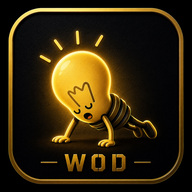
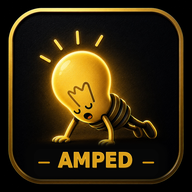
updated name

Changed region(s): [[0.125, 0.7188, 0.875, 0.9688]]

diff --git a/styles.css b/styles.css
@@ -1,5 +1,5 @@
 :root{color-scheme:dark;--bg:#050505;--surface:#101010;--surface2:#171717;--gold:#ffbd19;--gold2:#ffd85a;--gold-dark:#7a4d00;--text:#fff8df;--muted:#b7ae98;--line:#ffffff18;--danger:#ff6b62;--radius:24px;--safe-bottom:env(safe-area-inset-bottom,0px)}
-*{box-sizing:border-box;-webkit-tap-highlight-color:transparent}html{scroll-behavior:smooth}body{margin:0;min-height:100vh;font-family:Inter,ui-sans-serif,system-ui,-apple-system,BlinkMacSystemFont,"Segoe UI",sans-serif;background:radial-gradient(circle at 50% -20%,#6b4500 0,transparent 34rem),linear-gradient(#080808,#020202);color:var(--text)}button,input,select{font:inherit}button{touch-action:manipulation}.app-shell{width:min(760px,100%);margin:auto;padding:12px 14px calc(34px + var(--safe-bottom))}.topbar{height:66px;display:flex;align-items:center;justify-content:space-between}.brand{display:flex;align-items:center;gap:10px;color:inherit;text-decoration:none}.brand img{border-radius:14px;box-shadow:0 0 24px #ffbd194d}.brand span{display:grid;line-height:.86;letter-spacing:.1em}.brand b{font-size:.73rem;color:var(--muted)}.brand strong{font-size:1.35rem;color:var(--gold)}.top-actions{display:flex;gap:8px}.icon-btn,.ghost-btn,.secondary{border:1px solid var(--line);background:#ffffff0b;color:var(--text);border-radius:14px;min-height:44px;padding:0 15px;font-weight:800}.icon-btn{width:44px;padding:0;font-size:1.15rem}.hero-card{position:relative;min-height:290px;overflow:hidden;border:1px solid #ffbd193d;border-radius:30px;background:#090909;box-shadow:0 22px 65px #000,0 0 0 1px #000 inset}.hero-card:after{content:"";position:absolute;inset:0;background:linear-gradient(90deg,#050505 0%,#050505e8 40%,#05050550 72%,transparent),linear-gradient(0deg,#050505aa,transparent 50%);pointer-events:none}.hero-art{position:absolute;inset:0}.hero-art img{width:100%;height:100%;object-fit:cover;object-position:72% 44%;filter:saturate(.95) contrast(1.05)}.hero-copy{position:relative;z-index:1;width:62%;padding:32px 24px}.eyebrow{margin:0 0 9px;color:var(--gold);font-size:.72rem;font-weight:950;letter-spacing:.18em;text-transform:uppercase}.hero-copy h1{margin:0;font-size:clamp(2.8rem,13vw,5rem);line-height:.83;letter-spacing:-.065em;text-transform:uppercase}.hero-copy h1 span{color:var(--gold)}.hero-copy p:last-child{max-width:280px;color:var(--muted);font-weight:650;line-height:1.45}.builder-card,.preview-card,.utility-card,.settings-card{margin-top:14px;border:1px solid var(--line);border-radius:var(--radius);background:linear-gradient(180deg,#171717,#0c0c0c);box-shadow:0 18px 50px #0008}.builder-card,.preview-card{padding:20px}.card-heading,.preview-header{display:flex;align-items:flex-start;justify-content:space-between;gap:14px}.card-heading h2{margin:0;font-size:1.42rem}.step-pill{padding:7px 9px;border:1px solid #ffbd1940;border-radius:999px;color:var(--gold);font-size:.63rem;font-weight:900;white-space:nowrap}.segmented{display:grid;grid-template-columns:repeat(3,1fr);gap:6px;margin-top:20px;padding:5px;border:1px solid var(--line);border-radius:17px;background:#000}.tab{min-height:47px;border:0;border-radius:12px;background:transparent;color:var(--muted);font-weight:900}.tab.active{background:linear-gradient(135deg,#ffb000,#ffda5a);color:#171000;box-shadow:0 8px 24px #ffb00030}.input-panel{display:none;margin-top:18px}.input-panel.active{display:block}.input-panel label,.compact-control span{display:block;margin-bottom:8px;color:var(--muted);font-size:.83rem;font-weight:850}.name-input-wrap{position:relative}.text-box,select{width:100%;border:1px solid #ffbd1935;background:#050505;color:var(--text);border-radius:16px;outline:none}.text-box:focus,select:focus{border-color:var(--gold);box-shadow:0 0 0 3px #ffbd1917}.name-input{height:64px;padding:0 52px 0 16px;font-size:1.35rem;font-weight:900;text-transform:uppercase;letter-spacing:.03em}.clear-btn{position:absolute;right:9px;top:9px;width:46px;height:46px;border:0;border-radius:13px;background:#ffffff0c;color:var(--muted);font-size:1.6rem}.recent-names{display:flex;gap:8px;overflow:auto;padding-top:10px;scrollbar-width:none}.recent-names:empty{display:none}.recent-name{flex:0 0 auto;border:1px solid var(--line);border-radius:999px;background:#ffffff08;color:var(--muted);padding:8px 12px;font-size:.76rem;font-weight:850}.range-row{display:grid;grid-template-columns:1fr 56px;gap:12px;align-items:center}input[type=range]{width:100%;accent-color:var(--gold)}.range-value{height:48px;display:grid;place-items:center;border:1px solid var(--line);border-radius:13px;background:#050505;font-weight:950}.hint{margin:9px 0 0;color:var(--muted);font-size:.8rem;line-height:1.45}.quick-options{display:grid;grid-template-columns:1fr 1fr;gap:10px;margin-top:18px}.compact-control,.toggle-control{border:1px solid var(--line);border-radius:16px;background:#080808;padding:12px}.compact-control select{height:43px;padding:0 10px}.toggle-control{display:flex;align-items:center;gap:10px;color:var(--muted);font-size:.82rem;font-weight:800}.toggle-control input{width:22px;height:22px;accent-color:var(--gold);flex:0 0 auto}.primary{border:1px solid #ffe38f;border-radius:17px;background:linear-gradient(135deg,#f5a900,#ffd758 58%,#bd7600);color:#171000;font-weight:950;box-shadow:0 12px 30px #ffb0002e}.jumbo{width:100%;min-height:70px;margin-top:16px;display:grid;place-items:center;align-content:center}.jumbo span{font-size:1rem;letter-spacing:.08em}.jumbo small{margin-top:3px;font-weight:750;opacity:.7}.preview-header h2{margin:0;max-width:520px;font-size:clamp(2.5rem,11vw,5rem);line-height:.84;letter-spacing:-.06em;color:var(--gold);text-transform:uppercase;word-break:break-word}.preview-header p:last-child{margin:10px 0 0;color:var(--muted)}.move-count{flex:0 0 auto;width:82px;height:82px;display:grid;place-items:center;align-content:center;border:1px solid #ffbd1945;border-radius:50%;background:radial-gradient(circle,#ffbd1924,#000)}.move-count strong{font-size:2.3rem;line-height:.85}.move-count span{color:var(--muted);font-size:.65rem;text-transform:uppercase;font-weight:900}.exercise-preview{display:grid;gap:8px;margin-top:20px}.preview-move{display:grid;grid-template-columns:44px 1fr auto;gap:11px;align-items:center;padding:10px;border:1px solid var(--line);border-radius:15px;background:#080808}.preview-letter{width:44px;height:44px;display:grid;place-items:center;border-radius:12px;background:linear-gradient(135deg,#ffb000,#ffe075);color:#171000;font-size:1.3rem;font-weight:1000}.preview-move b{display:block}.preview-move small{color:var(--muted)}.preview-index{color:#756e5f;font-size:.73rem;font-weight:900}.preview-timer-btn{border:1px solid #ffbd1950;border-radius:12px;background:#ffbd1918;color:var(--gold);font-weight:900;font-size:.73rem;padding:9px 10px;min-width:58px}.preview-timer-btn.running{background:linear-gradient(135deg,#f5a900,#ffdb62);color:#171000;border-color:#ffe38f}.preview-timer-btn.done{background:#1f6b3a26;color:#5fd98a;border-color:#5fd98a55}.more-moves{text-align:center;color:var(--muted);font-size:.8rem;font-weight:800}.totals{display:flex;gap:7px;overflow-x:auto;margin-top:12px;padding-bottom:2px;scrollbar-width:none}.total{flex:0 0 auto;border:1px solid var(--line);border-radius:999px;padding:8px 11px;background:#ffffff08;color:var(--muted);font-size:.73rem;font-weight:850}.preview-actions{display:grid;grid-template-columns:1fr 1fr;gap:9px}.preview-actions .primary{grid-column:1/-1}.preview-actions .secondary{min-height:50px}.utility-card{overflow:hidden}.utility-row{width:100%;display:grid;grid-template-columns:42px 1fr auto;gap:11px;align-items:center;padding:14px;border:0;border-bottom:1px solid var(--line);background:transparent;color:var(--text);text-align:left}.utility-row:last-child{border-bottom:0}.utility-icon{width:40px;height:40px;display:grid;place-items:center;border-radius:12px;background:#ffbd1919;color:var(--gold);font-weight:950}.utility-row b,.utility-row small{display:block}.utility-row small{margin-top:3px;color:var(--muted);font-size:.74rem}.utility-row em{color:var(--gold);font-size:.72rem;font-style:normal;font-weight:900}.settings-card{overflow:hidden}.settings-card summary{padding:18px;cursor:pointer;font-weight:900}.settings-body{padding:0 16px 18px}.option-grid{display:grid;grid-template-columns:1fr 1fr;gap:9px}.editor-toolbar{display:flex;gap:8px;flex-wrap:wrap;margin:16px 0}.editor-toolbar .secondary,.import-label{display:inline-flex;align-items:center;justify-content:center;min-height:44px}.editor-head,.editor-row{display:grid;grid-template-columns:34px 64px 72px 1.5fr 1.1fr .8fr;gap:7px;align-items:center}.editor-head{color:var(--muted);font-size:.64rem;text-transform:uppercase}.editor-grid{display:grid;gap:7px;margin-top:8px}.editor-row{border:1px solid var(--line);border-radius:13px;padding:7px;background:#080808}.editor-letter{width:34px;height:34px;display:grid;place-items:center;border-radius:9px;background:#ffbd191e;color:var(--gold);font-weight:950}.editor-row input,.editor-row select{min-width:0;height:39px;padding:0 8px;border-radius:9px}.runner{position:fixed;z-index:100;inset:0;display:grid;grid-template-rows:auto 5px 1fr auto;background:radial-gradient(circle at 50% 30%,#4a3000 0,transparent 48%),#050505;padding:calc(10px + env(safe-area-inset-top,0px)) 14px calc(12px + var(--safe-bottom))}.runner-top{display:grid;grid-template-columns:48px 1fr 48px;align-items:center}.runner-icon{height:48px;border:1px solid var(--line);border-radius:14px;background:#ffffff0b;color:var(--text);font-size:1.35rem}.runner-title{text-align:center}.runner-title small,.runner-title b{display:block}.runner-title small{color:var(--gold);font-size:.69rem;font-weight:950;letter-spacing:.14em}.runner-title b{margin-top:2px;font-size:.8rem}.progress-track{margin-top:10px;border-radius:999px;background:#ffffff13;overflow:hidden}.progress-track span{display:block;height:100%;width:0;background:linear-gradient(90deg,#f5a900,#ffe275);transition:width .25s}.runner-main{display:grid;place-items:center;align-content:center;text-align:center;min-height:0;overflow:auto}.runner-letter{width:min(42vw,190px);height:min(42vw,190px);display:grid;place-items:center;border:3px solid #ffe27f;border-radius:38px;background:radial-gradient(circle at 35% 30%,#ffe37c,#ffb000 52%,#875000);color:#1b1100;font-size:min(28vw,8rem);font-weight:1000;box-shadow:0 0 70px #ffb0004d}.runner-kicker{margin:22px 0 7px;color:var(--muted);font-size:.72rem;font-weight:950;letter-spacing:.17em}.runner-main h2{max-width:680px;margin:0;font-size:clamp(2.2rem,10vw,5.3rem);line-height:.95;letter-spacing:-.045em;text-transform:uppercase}.runner-split{margin:10px 0 0;color:var(--gold);font-weight:900}.timer-box{margin-top:20px}.timer-box strong{display:block;font-size:4rem;line-height:.9}.timer-box span{color:var(--muted);font-size:.7rem;font-weight:950;letter-spacing:.16em}.timer-button{display:block;min-width:180px;height:48px;margin:12px auto 0;border:1px solid #ffbd1950;border-radius:14px;background:#ffbd1918;color:var(--gold);font-weight:950}.runner-bottom{display:grid;grid-template-columns:72px 1fr 72px;gap:9px}.runner-secondary,.runner-complete{min-height:68px;border-radius:18px}.runner-secondary{border:1px solid var(--line);background:#ffffff0b;color:var(--muted);font-size:.78rem;font-weight:900}.runner-complete{border:1px solid #ffe38f;background:linear-gradient(135deg,#f5a900,#ffdb62);color:#171000;font-weight:1000}.runner-complete span,.runner-complete small{display:block}.runner-complete span{font-size:1.08rem;letter-spacing:.08em}.runner-complete small{opacity:.68}.finish-screen{position:fixed;z-index:110;inset:0;display:grid;place-items:center;align-content:center;text-align:center;padding:30px;background:radial-gradient(circle at center,#5a3b00,#050505 55%)}.finish-screen img{border-radius:28px;box-shadow:0 0 70px #ffbd1959}.finish-screen h2{margin:8px 0;font-size:clamp(2.5rem,12vw,5.4rem);line-height:.88;color:var(--gold);letter-spacing:-.05em}.finish-screen p:not(.eyebrow){color:var(--muted)}.finish-screen .secondary{width:100%;max-width:420px;min-height:50px;margin-top:10px}.finish-screen .primary{max-width:420px}.hidden{display:none!important}
+*{box-sizing:border-box;-webkit-tap-highlight-color:transparent}html{scroll-behavior:smooth}body{margin:0;min-height:100vh;font-family:Inter,ui-sans-serif,system-ui,-apple-system,BlinkMacSystemFont,"Segoe UI",sans-serif;background:radial-gradient(circle at 50% -20%,#6b4500 0,transparent 34rem),linear-gradient(#080808,#020202);color:var(--text)}button,input,select{font:inherit}button{touch-action:manipulation}.app-shell{width:min(760px,100%);margin:auto;padding:12px 14px calc(34px + var(--safe-bottom))}.topbar{height:66px;display:flex;align-items:center;justify-content:space-between}.brand{display:flex;align-items:center;gap:10px;color:inherit;text-decoration:none}.brand img{border-radius:14px;box-shadow:0 0 24px #ffbd194d}.brand span{display:grid;line-height:.86;letter-spacing:.1em}.brand b{font-size:.73rem;color:var(--muted)}.brand strong{font-size:1.35rem;color:var(--gold)}.top-actions{display:flex;gap:8px}.icon-btn,.ghost-btn,.secondary{border:1px solid var(--line);background:#ffffff0b;color:var(--text);border-radius:14px;min-height:44px;padding:0 15px;font-weight:800}.icon-btn{width:44px;padding:0;font-size:1.15rem}.hero-card{position:relative;min-height:290px;overflow:hidden;border:1px solid #ffbd193d;border-radius:30px;background:#090909;box-shadow:0 22px 65px #000,0 0 0 1px #000 inset}.hero-card:after{content:"";position:absolute;inset:0;background:linear-gradient(90deg,#050505 0%,#050505e8 40%,#05050550 72%,transparent),linear-gradient(0deg,#050505aa,transparent 50%);pointer-events:none}.hero-art{position:absolute;inset:0}.hero-art img{width:100%;height:100%;object-fit:cover;object-position:72% 44%;filter:saturate(.95) contrast(1.05)}.max-hotspot{position:absolute;z-index:2;right:0;top:0;width:52%;height:100%;border:0;background:transparent;cursor:default}.max-hotspot:focus-visible{outline:2px solid var(--gold);outline-offset:-8px;border-radius:26px}.max-toast{position:fixed;z-index:130;left:50%;bottom:calc(24px + var(--safe-bottom));max-width:min(88vw,420px);padding:12px 16px;border:1px solid #ffbd1950;border-radius:999px;background:#111e;color:var(--gold);font-size:.82rem;font-weight:900;text-align:center;box-shadow:0 12px 36px #000c;opacity:0;transform:translate(-50%,18px) scale(.96);pointer-events:none;transition:opacity .18s ease,transform .18s ease}.max-toast.show{opacity:1;transform:translate(-50%,0) scale(1)}.hero-copy{position:relative;z-index:1;width:62%;padding:32px 24px}.eyebrow{margin:0 0 9px;color:var(--gold);font-size:.72rem;font-weight:950;letter-spacing:.18em;text-transform:uppercase}.hero-copy h1{margin:0;font-size:clamp(2.8rem,13vw,5rem);line-height:.83;letter-spacing:-.065em;text-transform:uppercase}.hero-copy h1 span{color:var(--gold)}.hero-copy p:last-child{max-width:280px;color:var(--muted);font-weight:650;line-height:1.45}.builder-card,.preview-card,.utility-card,.settings-card{margin-top:14px;border:1px solid var(--line);border-radius:var(--radius);background:linear-gradient(180deg,#171717,#0c0c0c);box-shadow:0 18px 50px #0008}.builder-card,.preview-card{padding:20px}.card-heading,.preview-header{display:flex;align-items:flex-start;justify-content:space-between;gap:14px}.card-heading h2{margin:0;font-size:1.42rem}.step-pill{padding:7px 9px;border:1px solid #ffbd1940;border-radius:999px;color:var(--gold);font-size:.63rem;font-weight:900;white-space:nowrap}.segmented{display:grid;grid-template-columns:repeat(3,1fr);gap:6px;margin-top:20px;padding:5px;border:1px solid var(--line);border-radius:17px;background:#000}.tab{min-height:47px;border:0;border-radius:12px;background:transparent;color:var(--muted);font-weight:900}.tab.active{background:linear-gradient(135deg,#ffb000,#ffda5a);color:#171000;box-shadow:0 8px 24px #ffb00030}.input-panel{display:none;margin-top:18px}.input-panel.active{display:block}.input-panel label,.compact-control span{display:block;margin-bottom:8px;color:var(--muted);font-size:.83rem;font-weight:850}.name-input-wrap{position:relative}.text-box,select{width:100%;border:1px solid #ffbd1935;background:#050505;color:var(--text);border-radius:16px;outline:none}.text-box:focus,select:focus{border-color:var(--gold);box-shadow:0 0 0 3px #ffbd1917}.name-input{height:64px;padding:0 52px 0 16px;font-size:1.35rem;font-weight:900;text-transform:uppercase;letter-spacing:.03em}.clear-btn{position:absolute;right:9px;top:9px;width:46px;height:46px;border:0;border-radius:13px;background:#ffffff0c;color:var(--muted);font-size:1.6rem}.recent-names{display:flex;gap:8px;overflow:auto;padding-top:10px;scrollbar-width:none}.recent-names:empty{display:none}.recent-name{flex:0 0 auto;border:1px solid var(--line);border-radius:999px;background:#ffffff08;color:var(--muted);padding:8px 12px;font-size:.76rem;font-weight:850}.range-row{display:grid;grid-template-columns:1fr 56px;gap:12px;align-items:center}input[type=range]{width:100%;accent-color:var(--gold)}.range-value{height:48px;display:grid;place-items:center;border:1px solid var(--line);border-radius:13px;background:#050505;font-weight:950}.hint{margin:9px 0 0;color:var(--muted);font-size:.8rem;line-height:1.45}.quick-options{display:grid;grid-template-columns:1fr 1fr;gap:10px;margin-top:18px}.compact-control,.toggle-control{border:1px solid var(--line);border-radius:16px;background:#080808;padding:12px}.compact-control select{height:43px;padding:0 10px}.toggle-control{display:flex;align-items:center;gap:10px;color:var(--muted);font-size:.82rem;font-weight:800}.toggle-control input{width:22px;height:22px;accent-color:var(--gold);flex:0 0 auto}.primary{border:1px solid #ffe38f;border-radius:17px;background:linear-gradient(135deg,#f5a900,#ffd758 58%,#bd7600);color:#171000;font-weight:950;box-shadow:0 12px 30px #ffb0002e}.jumbo{width:100%;min-height:70px;margin-top:16px;display:grid;place-items:center;align-content:center}.jumbo span{font-size:1rem;letter-spacing:.08em}.jumbo small{margin-top:3px;font-weight:750;opacity:.7}.preview-header h2{margin:0;max-width:520px;font-size:clamp(2.5rem,11vw,5rem);line-height:.84;letter-spacing:-.06em;color:var(--gold);text-transform:uppercase;word-break:break-word}.preview-header p:last-child{margin:10px 0 0;color:var(--muted)}.move-count{flex:0 0 auto;width:82px;height:82px;display:grid;place-items:center;align-content:center;border:1px solid #ffbd1945;border-radius:50%;background:radial-gradient(circle,#ffbd1924,#000)}.move-count strong{font-size:2.3rem;line-height:.85}.move-count span{color:var(--muted);font-size:.65rem;text-transform:uppercase;font-weight:900}.exercise-preview{display:grid;gap:8px;margin-top:20px}.preview-move{display:grid;grid-template-columns:44px 1fr auto;gap:11px;align-items:center;padding:10px;border:1px solid var(--line);border-radius:15px;background:#080808}.preview-letter{width:44px;height:44px;display:grid;place-items:center;border-radius:12px;background:linear-gradient(135deg,#ffb000,#ffe075);color:#171000;font-size:1.3rem;font-weight:1000}.preview-move b{display:block}.preview-move small{color:var(--muted)}.preview-index{color:#756e5f;font-size:.73rem;font-weight:900}.preview-timer-btn{border:1px solid #ffbd1950;border-radius:12px;background:#ffbd1918;color:var(--gold);font-weight:900;font-size:.73rem;padding:9px 10px;min-width:58px}.preview-timer-btn.running{background:linear-gradient(135deg,#f5a900,#ffdb62);color:#171000;border-color:#ffe38f}.preview-timer-btn.done{background:#1f6b3a26;color:#5fd98a;border-color:#5fd98a55}.more-moves{text-align:center;color:var(--muted);font-size:.8rem;font-weight:800}.totals{display:flex;gap:7px;overflow-x:auto;margin-top:12px;padding-bottom:2px;scrollbar-width:none}.total{flex:0 0 auto;border:1px solid var(--line);border-radius:999px;padding:8px 11px;background:#ffffff08;color:var(--muted);font-size:.73rem;font-weight:850}.preview-actions{display:grid;grid-template-columns:1fr 1fr;gap:9px}.preview-actions .primary{grid-column:1/-1}.preview-actions .secondary{min-height:50px}.utility-card{overflow:hidden}.utility-row{width:100%;display:grid;grid-template-columns:42px 1fr auto;gap:11px;align-items:center;padding:14px;border:0;border-bottom:1px solid var(--line);background:transparent;color:var(--text);text-align:left}.utility-row:last-child{border-bottom:0}.utility-icon{width:40px;height:40px;display:grid;place-items:center;border-radius:12px;background:#ffbd1919;color:var(--gold);font-weight:950}.utility-row b,.utility-row small{display:block}.utility-row small{margin-top:3px;color:var(--muted);font-size:.74rem}.utility-row em{color:var(--gold);font-size:.72rem;font-style:normal;font-weight:900}.settings-card{overflow:hidden}.settings-card summary{padding:18px;cursor:pointer;font-weight:900}.settings-body{padding:0 16px 18px}.option-grid{display:grid;grid-template-columns:1fr 1fr;gap:9px}.editor-toolbar{display:flex;gap:8px;flex-wrap:wrap;margin:16px 0}.editor-toolbar .secondary,.import-label{display:inline-flex;align-items:center;justify-content:center;min-height:44px}.editor-head,.editor-row{display:grid;grid-template-columns:34px 64px 72px 1.5fr 1.1fr .8fr;gap:7px;align-items:center}.editor-head{color:var(--muted);font-size:.64rem;text-transform:uppercase}.editor-grid{display:grid;gap:7px;margin-top:8px}.editor-row{border:1px solid var(--line);border-radius:13px;padding:7px;background:#080808}.editor-letter{width:34px;height:34px;display:grid;place-items:center;border-radius:9px;background:#ffbd191e;color:var(--gold);font-weight:950}.editor-row input,.editor-row select{min-width:0;height:39px;padding:0 8px;border-radius:9px}.runner{position:fixed;z-index:100;inset:0;display:grid;grid-template-rows:auto 5px 1fr auto;background:radial-gradient(circle at 50% 30%,#4a3000 0,transparent 48%),#050505;padding:calc(10px + env(safe-area-inset-top,0px)) 14px calc(12px + var(--safe-bottom))}.runner-top{display:grid;grid-template-columns:48px 1fr 48px;align-items:center}.runner-icon{height:48px;border:1px solid var(--line);border-radius:14px;background:#ffffff0b;color:var(--text);font-size:1.35rem}.runner-title{text-align:center}.runner-title small,.runner-title b{display:block}.runner-title small{color:var(--gold);font-size:.69rem;font-weight:950;letter-spacing:.14em}.runner-title b{margin-top:2px;font-size:.8rem}.progress-track{margin-top:10px;border-radius:999px;background:#ffffff13;overflow:hidden}.progress-track span{display:block;height:100%;width:0;background:linear-gradient(90deg,#f5a900,#ffe275);transition:width .25s}.runner-main{display:grid;place-items:center;align-content:center;text-align:center;min-height:0;overflow:auto}.runner-letter{width:min(42vw,190px);height:min(42vw,190px);display:grid;place-items:center;border:3px solid #ffe27f;border-radius:38px;background:radial-gradient(circle at 35% 30%,#ffe37c,#ffb000 52%,#875000);color:#1b1100;font-size:min(28vw,8rem);font-weight:1000;box-shadow:0 0 70px #ffb0004d}.runner-kicker{margin:22px 0 7px;color:var(--muted);font-size:.72rem;font-weight:950;letter-spacing:.17em}.runner-main h2{max-width:680px;margin:0;font-size:clamp(2.2rem,10vw,5.3rem);line-height:.95;letter-spacing:-.045em;text-transform:uppercase}.runner-split{margin:10px 0 0;color:var(--gold);font-weight:900}.timer-box{margin-top:20px}.timer-box strong{display:block;font-size:4rem;line-height:.9}.timer-box span{color:var(--muted);font-size:.7rem;font-weight:950;letter-spacing:.16em}.timer-button{display:block;min-width:180px;height:48px;margin:12px auto 0;border:1px solid #ffbd1950;border-radius:14px;background:#ffbd1918;color:var(--gold);font-weight:950}.runner-bottom{display:grid;grid-template-columns:72px 1fr 72px;gap:9px}.runner-secondary,.runner-complete{min-height:68px;border-radius:18px}.runner-secondary{border:1px solid var(--line);background:#ffffff0b;color:var(--muted);font-size:.78rem;font-weight:900}.runner-complete{border:1px solid #ffe38f;background:linear-gradient(135deg,#f5a900,#ffdb62);color:#171000;font-weight:1000}.runner-complete span,.runner-complete small{display:block}.runner-complete span{font-size:1.08rem;letter-spacing:.08em}.runner-complete small{opacity:.68}.finish-screen{position:fixed;z-index:110;inset:0;display:grid;place-items:center;align-content:center;text-align:center;padding:30px;background:radial-gradient(circle at center,#5a3b00,#050505 55%)}.finish-screen img{border-radius:28px;box-shadow:0 0 70px #ffbd1959}.finish-screen h2{margin:8px 0;font-size:clamp(2.5rem,12vw,5.4rem);line-height:.88;color:var(--gold);letter-spacing:-.05em}.finish-screen p:not(.eyebrow){color:var(--muted)}.finish-screen .secondary{width:100%;max-width:420px;min-height:50px;margin-top:10px}.finish-screen .primary{max-width:420px}.hidden{display:none!important}
 @media(max-width:600px){.app-shell{padding-left:10px;padding-right:10px}.hero-card{min-height:250px}.hero-copy{width:68%;padding:25px 17px}.hero-copy p:last-child{font-size:.85rem}.builder-card,.preview-card{padding:16px}.quick-options,.option-grid{grid-template-columns:1fr}.preview-header{align-items:flex-start}.preview-move{grid-template-columns:40px 1fr}.preview-index{display:none}.editor-head{display:none}.editor-row{grid-template-columns:42px 1fr 1fr}.editor-letter{grid-row:1/3;height:100%}.runner-main h2{font-size:clamp(2rem,10vw,4rem)}}
 @media(max-height:700px){.runner-letter{width:110px;height:110px;border-radius:25px;font-size:4.8rem}.runner-kicker{margin-top:12px}.runner-main h2{font-size:2.3rem}.timer-box{margin-top:10px}.timer-box strong{font-size:2.7rem}}
 

diff --git a/app.js b/app.js
@@ -31,6 +31,21 @@ const FINISH_MESSAGES = [
   'BUILT FOR MORE.'
 ];
 
+// Max is the bulb mascot. He stays intentionally subtle as an Easter egg.
+const MAX_MESSAGES = [
+  'Max is fully charged.',
+  'Max says: keep it moving.',
+  'Max approves this level of chaos.',
+  'Max has an idea. It involves reps.',
+  'Current status: AMPED.',
+  'Max says: one more.',
+  'Max was told this was a light workout.',
+  'Max says: build first, complain later.',
+  'Max is glowing. That seems promising.',
+  'Max says: good choice. Probably.'
+];
+let maxToastTimer = null;
+
 const INTENSITY_LEVELS = [
   {value:0.5,label:'✨ Spark',color:'#45c4e8'},
   {value:0.75,label:'🔋 Energized',color:'#55d187'},
@@ -237,12 +252,12 @@ async function loadTodaySchedule(){
     scheduleData = await response.json();
     scheduleLoaded = true;
     todayScheduleEntry = scheduleData.find(entry => entry.date === todayISO()) || null;
-    if(!todayScheduleEntry) console.warn('No Name WOD schedule entry for',todayISO());
+    if(!todayScheduleEntry) console.warn('No Name workout schedule entry for',todayISO());
   }catch(error){
     scheduleData = [];
     scheduleLoaded = false;
     todayScheduleEntry = null;
-    console.warn('Could not load today’s Name WOD schedule.',error);
+    console.warn('Could not load today’s Name workout schedule.',error);
   }
   applyScheduledName();
   updateNameModeAvailability();
@@ -455,6 +470,17 @@ async function buildWorkoutFromInput(){
   lastD20WorkoutRoll = null;
   rememberName(raw);
   showPreview();
+}
+
+function showMaxMessage(){
+  const toast = $('maxToast');
+  if(!toast) return;
+  const message = MAX_MESSAGES[secureRandomInt(MAX_MESSAGES.length)];
+  toast.textContent = message;
+  toast.classList.add('show');
+  if(maxToastTimer) clearTimeout(maxToastTimer);
+  maxToastTimer = setTimeout(()=>toast.classList.remove('show'),2600);
+  vibrate(20);
 }
 
 function secureRandomInt(max){
@@ -832,7 +858,7 @@ async function showTestNotification(){
     if(!name){setNotificationStatus('No workout selected','Build a workout before sending a test.');return}
     const message=`Today's workout is ${name}. Open the app to start.`;
     const registration=await navigator.serviceWorker.ready;
-    await registration.showNotification('Your Name WOD is ready',{body:message,icon:'icon-192.png',badge:'icon-192.png',tag:'name-wod-test'});
+    await registration.showNotification('Your AMPED workout is ready',{body:message,icon:'icon-192.png',badge:'icon-192.png',tag:'name-wod-test'});
   }catch(error){console.error('Test notification failed.',error);setNotificationStatus('Test failed',error.message||'The test notification could not be sent.')}
 }
 async function registerServiceWorker(){
@@ -857,7 +883,7 @@ async function initializeNotifications(){
   await registerServiceWorker();
 }
 function initializeNotificationFeature(){
-  if(!ENABLE_NOTIFICATIONS){hideNotificationControls();console.log('Name WOD notifications are disabled.');return}
+  if(!ENABLE_NOTIFICATIONS){hideNotificationControls();console.log('AMPED notifications are disabled.');return}
   initializeNotifications();
   $('enableNotificationsBtn')?.addEventListener('click',async()=>{
     if(!oneSignalInstance){setNotificationStatus('Loading','OneSignal is still starting. Try again shortly.');return}
@@ -905,6 +931,7 @@ $('wakeBtn').addEventListener('click',()=>wakeLock?releaseWakeLock():requestWake
 $('finishCloseBtn').addEventListener('click',closeFinish);
 $('finishAgainBtn').addEventListener('click',()=>{closeFinish();$('previewCard').classList.add('hidden');window.scrollTo({top:0,behavior:'smooth'});if(mode==='custom')$('customText').select()});
 $('settingsBtn').addEventListener('click',()=>{$('settingsPanel').open=true;$('settingsPanel').scrollIntoView({behavior:'smooth'})});
+$('maxMascot')?.addEventListener('click',showMaxMessage);
 
 document.querySelectorAll('input[name="d20Mode"]').forEach(input=>input.addEventListener('change',()=>{resetD20Rolls();updateD20Controls()}));
 $('d20AutoRoll').addEventListener('change',()=>{resetD20Rolls();updateD20Controls()});
@@ -941,7 +968,7 @@ $('exportExercisesBtn').addEventListener('click',()=>{
   const url=URL.createObjectURL(new Blob([JSON.stringify(exercises,null,2)],{type:'application/json'}));
   const anchor=document.createElement('a');
   anchor.href=url;
-  anchor.download='name-wod-exercises.json';
+  anchor.download='amped-exercises.json';
   anchor.click();
   URL.revokeObjectURL(url);
 });

diff --git a/index.html b/index.html
@@ -6,9 +6,9 @@
   <meta name="theme-color" content="#090909">
   <meta name="apple-mobile-web-app-capable" content="yes">
   <meta name="apple-mobile-web-app-status-bar-style" content="black-translucent">
-  <meta name="apple-mobile-web-app-title" content="Name WOD">
+  <meta name="apple-mobile-web-app-title" content="AMPED">
   <meta name="description" content="Roll it. Sweat it. Build it. Choose a D20, name, letters, or word workout.">
-  <title>Name WOD</title>
+  <title>AMPED</title>
   <link rel="manifest" href="manifest.webmanifest">
   <link rel="icon" href="icon-192.png" type="image/png">
   <link rel="apple-touch-icon" href="icon-192.png">
@@ -18,9 +18,9 @@
 <body>
   <main class="app-shell">
     <header class="topbar">
-      <a class="brand" href="#" aria-label="Name WOD home">
+      <a class="brand" href="#" aria-label="AMPED home">
         <img src="icon-192.png" alt="" width="50" height="50">
-        <span><b>NAME</b><strong>WOD</strong></span>
+        <span><b>AMP</b><strong>ED</strong></span>
       </a>
       <div class="top-actions">
         <button id="installBtn" class="ghost-btn hidden" type="button">Install</button>
@@ -29,7 +29,10 @@
     </header>
 
     <section class="hero-card">
-      <div class="hero-art" aria-hidden="true"><img src="wod-hero.jpg" alt=""></div>
+      <div class="hero-art">
+        <img src="wod-hero.jpg" alt="">
+        <button id="maxMascot" class="max-hotspot" type="button" aria-label="Max, the AMPED bulb" title="Max"></button>
+      </div>
       <div class="hero-copy">
         <p class="eyebrow">Workout of the day</p>
         <h1><span id="heroVerb">Roll it.</span><br><span>Sweat it.</span><br><span id="heroBuild">Build it.</span></h1>
@@ -129,7 +132,7 @@
       </div>
       <div id="exercisePreview" class="exercise-preview"></div>
       <aside id="tomorrowNameCard" class="tomorrow-name-card hidden" aria-live="polite">
-        <span>Tomorrow's Name WOD</span>
+        <span>Tomorrow's Name Workout</span>
         <strong id="tomorrowName"></strong>
         <small>Tomorrow's workout unlocks at midnight.</small>
       </aside>
@@ -178,6 +181,8 @@
       </div>
     </details>
   </main>
+
+  <div id="maxToast" class="max-toast" role="status" aria-live="polite"></div>
 
   <section id="runner" class="runner hidden" aria-label="Active workout">
     <div class="runner-top">

diff --git a/sw.js b/sw.js
@@ -1,5 +1,5 @@
 importScripts('https://cdn.onesignal.com/sdks/web/v16/OneSignalSDK.sw.js');
-const CACHE_NAME='name-wod-v14';
+const CACHE_NAME='amped-v17';
 const APP_ASSETS=['./','./index.html','./styles.css','./app.js','./manifest.webmanifest','./icon-192.png','./icon-512.png','./wod-hero.jpg','./notify-schedule.json','https://cdn.jsdelivr.net/npm/random-words@2.0.1/+esm'];
 self.addEventListener('install',event=>{self.skipWaiting();event.waitUntil(caches.open(CACHE_NAME).then(cache=>Promise.all(APP_ASSETS.map(asset=>cache.add(asset).catch(error=>console.warn('Precache failed for',asset,error))))))});
 self.addEventListener('activate',event=>{event.waitUntil(caches.keys().then(keys=>Promise.all(keys.filter(key=>key!==CACHE_NAME).map(key=>caches.delete(key)))).then(()=>self.clients.claim()))});

diff --git a/CHANGELOG.md b/CHANGELOG.md
@@ -1,4 +1,28 @@
-# Name WOD update
+# AMPED update
+
+## v8 — Max Easter egg
+
+- Named the AMPED bulb mascot **Max** without changing the app name or primary branding.
+- Added a hidden tap target over the bulb artwork that reveals rotating Max messages.
+- Added accessible labeling so the mascot has a real identity without adding visible UI clutter.
+- Bumped the service-worker cache to `amped-v17`.
+
+## v7 — AMPED branding
+
+- Renamed the public app from **WOD Lab** to **AMPED**.
+- Updated install metadata, page title, header branding, reminders, workflow labels, and exercise export filename.
+- Updated the app icon from **WOD** to **AMPED** while retaining the bulb character and black/gold theme.
+- Kept the existing `/Name-Workout/` deployment path and legacy browser-storage / notification keys so current installs and preferences continue working.
+- Bumped the service-worker cache to `amped-v16`.
+
+
+## v6 — WOD Lab branding
+
+- Renamed the public app from **Name WOD** to **WOD Lab**.
+- Updated the header, install/PWA metadata, notification titles, and user-facing copy.
+- Kept the existing `/Name-Workout/` GitHub Pages path and legacy storage/notification identifiers for backward compatibility.
+- Bumped the service-worker cache to `wod-lab-v15`.
+
 
 ## Version 2.1
 

diff --git a/README.md b/README.md
@@ -1,6 +1,10 @@
-# Name WOD
+# AMPED
+
+> **Compatibility note:** The public app name is **AMPED**. The existing GitHub repository/path `Name-Workout`, workflow filename, OneSignal tag keys, and browser storage keys are intentionally retained so current installs, URLs, preferences, and notifications keep working.
 
 Mobile-first PWA with D20 as the default workout mode. Mode-aware tagline: D20 “Roll it. Sweat it. Build it.”; Name “Spell it. Sweat it. Build it.”; Letters “Draw it. Sweat it. Build it.”; Word “Pick it. Sweat it. Build it.” Name, random letters, and dictionary word modes remain available.
+
+The bulb mascot is **Max**, kept intentionally subtle as an Easter egg. Tapping the bulb artwork reveals one of Max’s rotating messages without changing the main AMPED branding.
 
 ## Ready-to-deploy files
 
@@ -80,7 +84,7 @@ Add one object per date:
 {
   "date": "2026-09-11",
   "name": "Alex",
-  "title": "Today's Name WOD: ALEX",
+  "title": "AMPED: ALEX",
   "message": "Today's workout name is ALEX. Open the app to start.",
   "note": "optional clarification"
 }
